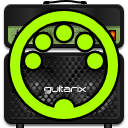
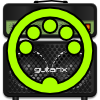
Unified rect drawing (with bevel and round borders) adn other stuff

diff --git a/trunk/libgxw/gxw/drawingutils.cpp b/trunk/libgxw/gxw/drawingutils.cpp
@@ -18,58 +18,36 @@
 
 #include "drawingutils.h"
 #include <cstring> 
+#include <algorithm> 
 
-void gx_draw_bevel (GtkWidget * widget, const gchar * type, GtkStateType * state, gint x, gint y, gint width, gint height, gint rad, GdkRegion * region) {
+void gx_draw_rect (GtkWidget * widget, const gchar * type, GtkStateType * state, gint x, gint y, gint width, gint height, gint rad, float bevel, GdkRegion * region) {
     cairo_t * cr = gdk_cairo_create(GDK_DRAWABLE(widget->window));
+    gx_clip_context(widget, cr, region);
     float r, g, b;
-    _gx_clip_context(widget, region, cr);
     gx_get_color(widget, type, state, &r, &g, &b);
-  
-    cairo_pattern_t * pat;
-    _gx_create_rectangle(cr, x, y, width, height, rad);
-    //pat = cairo_pattern_create_linear (x, y,  x, y + h);
-    //cairo_pattern_add_color_stop_rgba(pat, 0, 0, 0, 0, 0.5);
-    //cairo_pattern_add_color_stop_rgba(pat, 1, 1, 1, 1, 0.2);
-    cairo_set_source_rgb (cr, 0,0,0);
-    cairo_set_line_width(cr, 1);
-    cairo_stroke_preserve(cr);
-    
-    pat = cairo_pattern_create_linear (x, y,  x, y + height);
-    cairo_pattern_add_color_stop_rgb(pat, 0, r * 1.22, g * 1.22, b * 1.22);
-    cairo_pattern_add_color_stop_rgb(pat, 1, r / 1.22, r / 1.22, r / 1.22);
-    cairo_set_source (cr, pat);
-    cairo_fill(cr);
-    
-    cairo_destroy(cr);
-    cairo_pattern_destroy (pat);
-}
-
-void gx_draw_rect (GtkWidget * widget, const gchar * type, GtkStateType * state, gint x, gint y, gint width, gint height, gint rad, GdkRegion * region) {
-    cairo_t * cr = gdk_cairo_create(GDK_DRAWABLE(widget->window));
-    float r, g, b;
-    _gx_clip_context(widget, region, cr);
-    gx_get_color(widget, type, state, &r, &g, &b);
-    
-    _gx_create_rectangle(cr, x, y, width, height, rad);
+    gx_create_rectangle(cr, x, y, width, height, rad);
 	cairo_set_source_rgb(cr, r, g, b);
-	cairo_fill(cr);
+	cairo_fill_preserve(cr);
     
+    if (bevel)
+        gx_bevel(cr, x, y, width, height, bevel);
+        
     cairo_destroy(cr);
 }
 
-void gx_get_bg_color(GtkWidget * widget, GtkStateType * state, float * r, float * g, float * b) {
+void gx_get_bg_color (GtkWidget * widget, GtkStateType * state, float * r, float * g, float * b) {
     gx_get_color(widget, "bg", state, r, g, b);
 }
-void gx_get_fg_color(GtkWidget * widget, GtkStateType * state, float * r, float * g, float * b) {
+void gx_get_fg_color (GtkWidget * widget, GtkStateType * state, float * r, float * g, float * b) {
     gx_get_color(widget, "fg", state, r, g, b);
 }
-void gx_get_base_color(GtkWidget * widget, GtkStateType * state, float * r, float * g, float * b) {
+void gx_get_base_color (GtkWidget * widget, GtkStateType * state, float * r, float * g, float * b) {
     gx_get_color(widget, "base", state, r, g, b);
 }
-void gx_get_text_color(GtkWidget * widget, GtkStateType * state, float * r, float * g, float * b) {
+void gx_get_text_color (GtkWidget * widget, GtkStateType * state, float * r, float * g, float * b) {
     gx_get_color(widget, "text", state, r, g, b);
 }
-void gx_get_color(GtkWidget * widget, const gchar * type, GtkStateType * state, float * r, float * g, float * b) {
+void gx_get_color (GtkWidget * widget, const gchar * type, GtkStateType * state, float * r, float * g, float * b) {
     GdkColor color;
     GtkStyle * style = gtk_widget_get_style (widget);
     if (style != NULL) {
@@ -93,7 +71,7 @@ void gx_get_color(GtkWidget * widget, const gchar * type, GtkStateType * state, 
     }
 }
 
-void _gx_clip_context (GtkWidget * widget, GdkRegion *region, cairo_t * cr) {
+void gx_clip_context (GtkWidget * widget, cairo_t * cr, GdkRegion *region) {
     GdkRegion *reg = gdk_region_rectangle(&widget->allocation);
     if (region)
         gdk_region_intersect(reg, region);
@@ -101,8 +79,8 @@ void _gx_clip_context (GtkWidget * widget, GdkRegion *region, cairo_t * cr) {
 	cairo_clip (cr);
 }
 
-void _gx_create_rectangle(cairo_t * cr, gint x, gint y, gint width, gint height, gint rad) {
-    if (!rad) {
+void gx_create_rectangle (cairo_t * cr, gint x, gint y, gint width, gint height, gint rad) {
+    if (rad == 0) {
         cairo_rectangle(cr, x, y, width, height);
         return;
     }
@@ -115,4 +93,20 @@ void _gx_create_rectangle(cairo_t * cr, gint x, gint y, gint width, gint height,
     cairo_curve_to(cr,x,y+height,x,y+height,x,y+height-rad);       // Curve to G
     cairo_line_to(cr,x,y+rad);                      // Line to H
     cairo_curve_to(cr,x,y,x,y,x+rad,y);             // Curve to A
+}
+
+void gx_bevel (cairo_t * cr, gint x, gint y, gint width, gint height, float bevel) {
+    cairo_pattern_t * pat;
+    if (bevel > 0)
+        pat = cairo_pattern_create_linear (x, y, x, y + height);
+    else
+        pat = cairo_pattern_create_linear (x, y + height, x, y);
+    cairo_pattern_add_color_stop_rgba(pat, 0.0, 1.0, 1.0, 1.0, bevel / 2);
+    cairo_pattern_add_color_stop_rgba(pat, 1.0, 0.0, 0.0, 0.0, bevel);
+    cairo_set_source(cr, pat);
+    cairo_set_operator(cr, CAIRO_OPERATOR_SOFT_LIGHT);
+    cairo_fill_preserve(cr);
+    cairo_set_operator(cr, CAIRO_OPERATOR_OVER);
+    cairo_fill_preserve(cr);
+    cairo_pattern_destroy (pat);
 }

diff --git a/trunk/libgxw/gxw/GxRegler.cpp b/trunk/libgxw/gxw/GxRegler.cpp
@@ -353,7 +353,23 @@ static void gx_regler_class_init(GxReglerClass *klass)
 					  G_TYPE_INT, 2,
 					  G_TYPE_POINTER, //FIXME: GtkEntry*, gdouble*
 					  G_TYPE_POINTER);
-
+    
+    gtk_widget_class_install_style_property(
+		widget_class,
+		g_param_spec_int("border-radius",
+            P_("Border Radius"),
+            P_("The radius of the corners in pixels"),
+            0, 100, 0,
+            GParamFlags(G_PARAM_READWRITE|G_PARAM_STATIC_STRINGS)));
+    
+    gtk_widget_class_install_style_property(
+		widget_class,
+		g_param_spec_float("bevel",
+            P_("Bevel"),
+            P_("The bevel effect"),
+            -1.0, 1.0, 0.0,
+            GParamFlags(G_PARAM_READWRITE|G_PARAM_STATIC_STRINGS)));
+            
 	gtk_widget_class_install_style_property(
 		widget_class,
 		g_param_spec_boolean("show-value",
@@ -1006,34 +1022,37 @@ void _gx_regler_display_value(GxRegler *regler, GdkRectangle *rect)
 	double rect_width  =  rect->width - 2 * frm;
 	double rect_height =  rect->height - 2 * frm;
 	gint border_width = 2;
-
-    cairo_rectangle (cr, rect->x,rect->y,rect->width,rect->height);
-    cairo_set_source_rgba(cr, 0, 0, 0, 0.4);
-    cairo_fill (cr);
+    float bevel;
+    gtk_widget_style_get(GTK_WIDGET(regler), "bevel", &bevel, NULL);
+    gx_draw_rect(GTK_WIDGET(regler), "base", NULL, rect->x,rect->y,rect->width,rect->height, -1, 0, NULL);
+    
+    //cairo_rectangle (cr, rect->x,rect->y,rect->width,rect->height);
+    //cairo_set_source_rgba(cr, 0, 0, 0, 0.4);
+    //cairo_fill (cr);
 
     cairo_pattern_t*pat =
 	    cairo_pattern_create_radial (-50, y0, 5,rect_width-10,  rect_height, 20.0);
-    cairo_pattern_add_color_stop_rgba (pat, 1, 0., 0., 0., 0.8);
-    cairo_pattern_add_color_stop_rgba (pat, 0, 0, 0, 0, 0.4);
-    cairo_set_source (cr, pat);
-    cairo_rectangle (cr, x0+inset,y0+inset,rect_width-2*inset,rect_height-2*inset);
-    cairo_fill (cr);
+    //cairo_pattern_add_color_stop_rgba (pat, 1, 0., 0., 0., 0.8);
+    //cairo_pattern_add_color_stop_rgba (pat, 0, 0, 0, 0, 0.4);
+    //cairo_set_source (cr, pat);
+    //cairo_rectangle (cr, x0+inset,y0+inset,rect_width-2*inset,rect_height-2*inset);
+    //cairo_fill (cr);
 
-	// line on right and bottom side
-	cairo_set_source_rgb(cr,  0.2, 0.2, 0.2);
-	cairo_set_line_width(cr, 2.0);
-	cairo_move_to(cr,x0+rect_width-1-inset, y0+1+inset);
-	cairo_line_to(cr, x0+rect_width-1-inset, y0+rect_height-inset);
-	cairo_line_to(cr, x0+inset, y0+rect_height-inset);
-	cairo_stroke(cr);
+	//// line on right and bottom side
+	//cairo_set_source_rgb(cr,  0.2, 0.2, 0.2);
+	//cairo_set_line_width(cr, 2.0);
+	//cairo_move_to(cr,x0+rect_width-1-inset, y0+1+inset);
+	//cairo_line_to(cr, x0+rect_width-1-inset, y0+rect_height-inset);
+	//cairo_line_to(cr, x0+inset, y0+rect_height-inset);
+	//cairo_stroke(cr);
 
-	// line on left and top side
-    cairo_set_source_rgb(cr,  0.1, 0.1, 0.1);
-    cairo_set_line_width(cr, 2.0);
-    cairo_move_to(cr,x0+1+inset, y0+rect_height-inset+1);
-    cairo_line_to(cr, x0+1+inset, y0+1+inset);
-    cairo_line_to(cr, x0+rect_width-1-inset, y0+1+inset);
-    cairo_stroke(cr);
+	//// line on left and top side
+    //cairo_set_source_rgb(cr,  0.1, 0.1, 0.1);
+    //cairo_set_line_width(cr, 2.0);
+    //cairo_move_to(cr,x0+1+inset, y0+rect_height-inset+1);
+    //cairo_line_to(cr, x0+1+inset, y0+1+inset);
+    //cairo_line_to(cr, x0+rect_width-1-inset, y0+1+inset);
+    //cairo_stroke(cr);
 
 	gchar *txt;
 	ensure_digits(regler);

diff --git a/trunk/libgxw/gxw/GxSelector.cpp b/trunk/libgxw/gxw/GxSelector.cpp
@@ -18,6 +18,7 @@
 
 #include "GxSelector.h"
 #include <string.h>
+#include <algorithm>
 
 #define gtk_widget_get_requisition(w, r) (*r = (w)->requisition)
 
@@ -37,6 +38,7 @@ struct _GxSelectorPrivate
 
 enum {
 	PROP_MODEL = 1,
+    PROP_BORDER_RADIUS
 };
 
 static gboolean gx_selector_enter_in (GtkWidget *widget, GdkEventCrossing *event);
@@ -175,19 +177,35 @@ static gboolean gx_selector_expose (GtkWidget *widget, GdkEventExpose *event)
 	int selectorstate = get_selector_state(selector);
     
 	PangoLayout *layout = gtk_widget_create_pango_layout(widget, NULL);
+    //printf("%s\n", pango_layout_get_font_description(layout));
 	GdkRectangle arrow, text;
 	gint yborder, off_x, off_y;
 	gx_selector_get_positions(widget, &arrow, &yborder, &text, &off_x, &off_y);
-    gx_draw_bevel(widget, "bg", NULL, widget->allocation.x,
-                                      widget->allocation.y + (widget->allocation.height - widget->requisition.height) / 2,
-                                      widget->allocation.width,
-                                      widget->requisition.height, 10,
-                                      event->region);
-    gx_draw_rect(widget, "base", NULL, text.x, text.y, text.width, text.height, 4, event->region);
+    gint rad;
+    float bevel;
+    gtk_widget_style_get(widget, "border-radius", &rad, "bevel", &bevel, NULL);
     
-	cairo_t*cr = gdk_cairo_create(GDK_DRAWABLE(widget->window));
+    cairo_t * cr = gdk_cairo_create(GDK_DRAWABLE(widget->window));
+    
+    gx_draw_rect(widget, "bg", NULL, widget->allocation.x,
+        widget->allocation.y + (widget->allocation.height - widget->requisition.height) / 2,
+        widget->allocation.width,
+        widget->requisition.height,
+        rad,
+        bevel,
+        event->region);
+               
+    gx_draw_rect(widget, "base", NULL, text.x,
+        text.y,
+        text.width,
+        text.height,
+        std::max(rad - std::max(widget->style->ythickness, widget->style->ythickness), 0),
+        0,
+        event->region);
+        
 	gx_selector_draw_arrow(&arrow, yborder, cr, widget, priv->inside);
 	cairo_destroy(cr);
+    
 	if (selector->model) {
 		gint x, y;
 		PangoRectangle logical;

diff --git a/trunk/libgxw/gxw/drawingutils.h b/trunk/libgxw/gxw/drawingutils.h
@@ -22,8 +22,7 @@
 
 #include <gtk/gtk.h>
 
-void gx_draw_bevel(GtkWidget * widget, const gchar * type, GtkStateType * state, gint x, gint y, gint width, gint height, gint rad, GdkRegion * region);
-void gx_draw_rect(GtkWidget * widget, const gchar * type, GtkStateType * state, gint x, gint y, gint width, gint height, gint rad, GdkRegion * region);
+void gx_draw_rect(GtkWidget * widget, const gchar * type, GtkStateType * state, gint x, gint y, gint width, gint height, gint rad, float bevel, GdkRegion * region);
 
 void gx_get_bg_color(GtkWidget * widget, GtkStateType * state, float * r, float * g, float * b);
 void gx_get_fg_color(GtkWidget * widget, GtkStateType * state, float * r, float * g, float * b);
@@ -31,7 +30,8 @@ void gx_get_base_color(GtkWidget * widget, GtkStateType * state, float * r, floa
 void gx_get_text_color(GtkWidget * widget, GtkStateType * state, float * r, float * g, float * b);
 void gx_get_color(GtkWidget * widget, const gchar * type, GtkStateType * state, float * r, float * g, float * b);
 
-void _gx_clip_context (GtkWidget * widget, GdkRegion *region, cairo_t * cr);
-void _gx_create_rectangle(cairo_t * cr, gint x, gint y, gint width, gint height, gint rad);
+void gx_clip_context(GtkWidget * widget, cairo_t * cr, GdkRegion *region);
+void gx_create_rectangle(cairo_t * cr, gint x, gint y, gint width, gint height, gint rad);
+void gx_bevel(cairo_t * cr, gint x, gint y, gint width, gint height, float bevel);
 
 #endif /* __DRAWINGUTILS_H__ */

diff --git a/trunk/libgxw/gxw/GxRegler.h b/trunk/libgxw/gxw/GxRegler.h
@@ -24,6 +24,7 @@ part of guitarix, use  knobs with Gtk
 #define __GX_REGLER_H__
 
 #include <gtk/gtk.h>
+#include "drawingutils.h"
 
 G_BEGIN_DECLS
 
